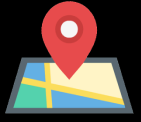
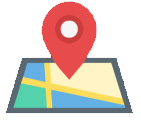
Ajuste no footer

diff --git a/pages/components/footer.jsx b/pages/components/footer.jsx
@@ -1,80 +1,70 @@
+import react from 'react'
 import Image from 'next/image'
+import Link from 'next/link'
 
-import Style from '../../styles/footer.module.css'
+import style from '../../styles/footer.module.css'
 
 export default function Footer() {
   return (
-        
-    <div className={Style.componente}>
-      <div className={Style.imagem}><Image src="/footer/mapa_icon_3.png" width={387*0.3} height={372*0.3}/></div>
-      <div  className={Style.componente2}>
-        <div className={Style.componente_interno}>
-          <span className={Style.titulo}>Onde nos encontrar</span><br/>
-          <div className={Style.linha}/><br/>
-          <div className={Style.descricao}>
-            <span>Universidade Federal de Santa Catarina
-            <br/>Departamento de Química
-            <br/>Campus Universitário Trindade - C.P. 476
-            <br/>Florianópolis, SC 88040-900</span>          
+    <div  className={style.box_all}>
+      <div className={style.box_footer}>
+        <div className={style.box_interna}>
+          <div className={style.box_imagem}>
+            <Link href="https://www.google.com/maps/place/Departamento+de+Qu%C3%ADmica+-+UFSC/@-27.5985254,-48.5257494,17z/data=!3m1!4b1!4m5!3m4!1s0x952738549f9be311:0x4e545dfbc9639aec!8m2!3d-27.5985678!4d-48.5234421">
+              <a>
+                <Image src="/footer/map_icon.png" width="141px" height="122px"/>
+              </a>        
+            </Link>           
+          </div>
+          <div  className={style.box_interna_2}>
+            <span className={style.titulo}>Onde nos encontrar</span>
+            <div className={style.descricao}>
+              <span>Universidade Federal de Santa Catarina
+              <br/>Departamento de Química
+              <br/><br/>Campus Universitário Trindade - C.P. 476
+              <br/>Florianópolis, SC 88040-900</span>          
+            </div>
           </div>
         </div>
-        <div>
-          <div className={Style.componente_interno}>
-            <span className={Style.titulo}>Horario de funcionamento:</span><br/>
-            <div className={Style.linha}/><br/>
-            <div className={Style.descricao}>
+        <div className={style.box_interna}>
+          <div  className={style.box_interna_2}>
+            <span className={style.titulo}>Contato</span>
+            <div className={style.descricao}>
+              <span>email
+              <br/>inctcatalise2016@gmail.com
+              <br/><br/>Secretária Executiva 
+              <br/>Andezza Rozar<br/>(48) 3721-6849
+              <br/><br/>Coordenador
+              <br/>Hugo Alejandro Gallardo Olmedo<br/>(48) 3721-9544</span>
+            </div>
+          </div>
+          <div  className={style.box_interna_2}>
+            <span className={style.titulo}>Horario de funcionamento</span>
+            <div className={style.descricao}>
               <span>Seg. - Sex :  9:00 - 17:00</span>          
             </div>
-          </div>
+          </div>                    
         </div>
-      </div>
-
-      <div  className={Style.componente2}>
-        <div className={Style.componente_interno}>
-          <span className={Style.titulo}>Contato</span><br/>
-          <div className={Style.linha}/><br/>
-          <div className={Style.descricao}>
-            <span>inctcatalise2016@gmail.com
-            <br/>Telefones:
-            <br/>Secretária Executiva: 
-            <br/>Andezza Rozar - (48) 3721-6849
-            <br/>Coordenador:
-            <br/>Hugo Alejandro Gallardo Olmedo - (48) 3721-9544</span>          
+        <div className={style.box_interna}>
+          <div  className={style.box_interna_2}>
+            <span className={style.titulo}>Órgãos Financiadores</span>
+            <Link href='http://www.google.com.br'><a><Image src="/footer/capes_logo_borda.png" height={70} width={70*3744/1436}/></a></Link>
+            <Link href='http://www.google.com.br'><a><Image src="/footer/cnpq_logo_borda.png" height={54} width={54*2406/810}/></a></Link>
+            <Link href='http://www.google.com.br'><a><Image src="/footer/fapesc_logo_borda.png" height={65} width={65*1629/495}/></a></Link>
           </div>
-        </div>
-        <div className={Style.componente_interno}>
-          <span className={Style.titulo}>Siga-nos</span><br/>
-          <div className={Style.linha}/><br/>
-          <div className={Style.icon_maginless}>
-            <a href='http://www.youtube.com.br'><Image src="/footer/youtube_icone_3.png" height={36} width={36}/></a>
-          </div>
-          <div className={Style.icon}>
-            <a href='http://www.facebook.com.br'><Image src="/footer/facebook_icone_2.png" height={36} width={36}/></a>
-          </div>
-        </div>
-      </div>
-      
-      <div  className={Style.componente2}>
-        <span className={Style.titulo}>Órgãos Financiadores</span>
-        <div className={Style.linha}/>
-        <div className={Style.componente_interno}>
-          <div className={Style.imagens}>
-            <div className={Style.icon_maginless}>
-              <a href='http://www.google.com.br'><Image src="/footer/capes_logo_borda.png" height={70} width={70*3744/1436}/></a>
-            </div> 
-            <div className={Style.icon_maginless}>
-              <a href='http://www.google.com.br'><Image src="/footer/cnpq_logo_borda.png" height={54} width={54*2406/810}/></a>
+          <div  className={style.box_interna_2}>
+            <span className={style.titulo}>Siga-nos</span>
+            <div className={style.redes}>
+              <Link href='http://www.youtube.com.br'><a className={style.icon_redes}><Image src="/footer/youtube_icone_3.png" height={36} width={36}/></a></Link>
+              <Link href='http://www.facebook.com.br'><a className={style.icon_redes}><Image src="/footer/facebook_icone_2.png" height={36} width={36}/></a></Link>
             </div>
           </div>
-          <div className={Style.icon_maginless}>
-            <a href='http://www.google.com.br'><Image src="/footer/fapesc_logo_borda.png" height={65} width={65*1629/495}/></a>
-          </div>
-        </div>         
+        </div>        
       </div>
-      
-        <div className={Style.sign}>
-          <a href='http://www.google.com.br'><Image src="/footer/ide_logo_borda.png" height={59} width={127}/></a>
-        </div>
+      <div className={style.box_assinatura}>
+        <span className={style.text_assinatura}>Produzido por</span>
+        <Link href='http://www.google.com.br'><a><Image src="/footer/logo_branco.png" height={59} width={127}/></a></Link>
+      </div>
     </div>
 
   )

diff --git a/styles/footer.module.css b/styles/footer.module.css
@@ -1,76 +1,127 @@
-.componente
+.box_all
 {
-    display: flex;
-    flex-wrap: wrap;
-    min-height: 365px;
+    /*min-height: 365px;*/
+    margin-top: 5%;
     width: 100%;
     background-color: #353535;
-    margin-top: 5%;
+    color: white;
+
+
+    display: flex;
+    flex-wrap: wrap;
+    /*flex-direction: column;*/
+    /*justify-content: center;*/
+    /*align-items: center;*/
 }
 
-.imagem
+.box_footer
 {
-    /*background-color: blue;*/
-    margin-top: 5%;
-    margin-left: 5%;  
-}
-
-.linha
-{
+    /*min-height: 365px;*/
+    /*background-color: yellow;*/
     width: 100%;
-    height: 4px;
-    background-color: white;
-    border-radius: 5%;
-    margin-top: 2%;
-    margin-bottom: -4%;
+
+    display: flex;
+    flex-wrap: wrap;
+    /*flex-direction: column;*/
+    justify-content: center;
+    /*align-items: center;*/
+}
+
+.box_interna
+{
+    width: 30%;
+    
+    display: flex;
+    justify-content: center;
+    align-items: center;
+    text-align: center;
+
+}
+
+.box_interna_2
+{
+    /*background-color: purple;*/
+    width: 100%;
+    height: 100%;
+    margin: 1% 7% 0 7% ;
+
+    display: flex;
+    flex-direction: column;
+}
+
+.box_imagem
+{
+    margin: 5% 0 9% 0;
 }
 
 .titulo
 {
-    font-size: large;
+    
+    padding: 1%;
+    margin: 5% 0 3% 0;
+    font-size: 24px;
     font-weight: bold;
-    color: white;     
+    border-bottom-style: solid;
+
 }
 
-.descricao
+.redes
 {
-    color: white;
-    /*text-align: center;*/
+    display: flex;
+    justify-content: center;
 }
 
-.componente_interno
+.icon_redes
 {
-    margin-top: 2%;    
-    padding-bottom: 10%;    
+    margin-left: 6%;
 }
 
-.icon
+.box_assinatura
 {
-    display: inline;
-    margin-left: 3%;   
+    width: 100%;
+    margin: 7% 3% 1% 0;
+
+    display: flex;
+    justify-content: right;
+    align-items: flex-end;
 }
 
-.icon_maginless
+.text_assinatura
 {
-    display: inline;    
-    /*height: 1%;*/ 
+    margin-right: 1%;
 }
 
-.imagens
+@media (max-width: 1320px) 
 {
-    width: fit-content;
+    .box_interna
+    {
+        width: fit-content;
+        flex-direction: column;              
+    }
+
+    .box_interna_2
+    {
+        justify-content: center;
+        align-items: center;
+    }
+
+    .box_footer
+    {
+        display: flex;
+        
+    }
+
 }
 
-.sign
-{
-    margin-top: 250px;
-    margin-left: 5%;      
-}
 
-.componente2
+
+@media (max-width: 589px) 
 {
-    width: 17%;
-    margin-top: 25px;
-    margin-left: 5%;
-    display: grid;
+    .box_assinatura
+    {
+        flex-direction: column;
+        justify-content: center;        
+        align-items: center;
+    }
+
 }
